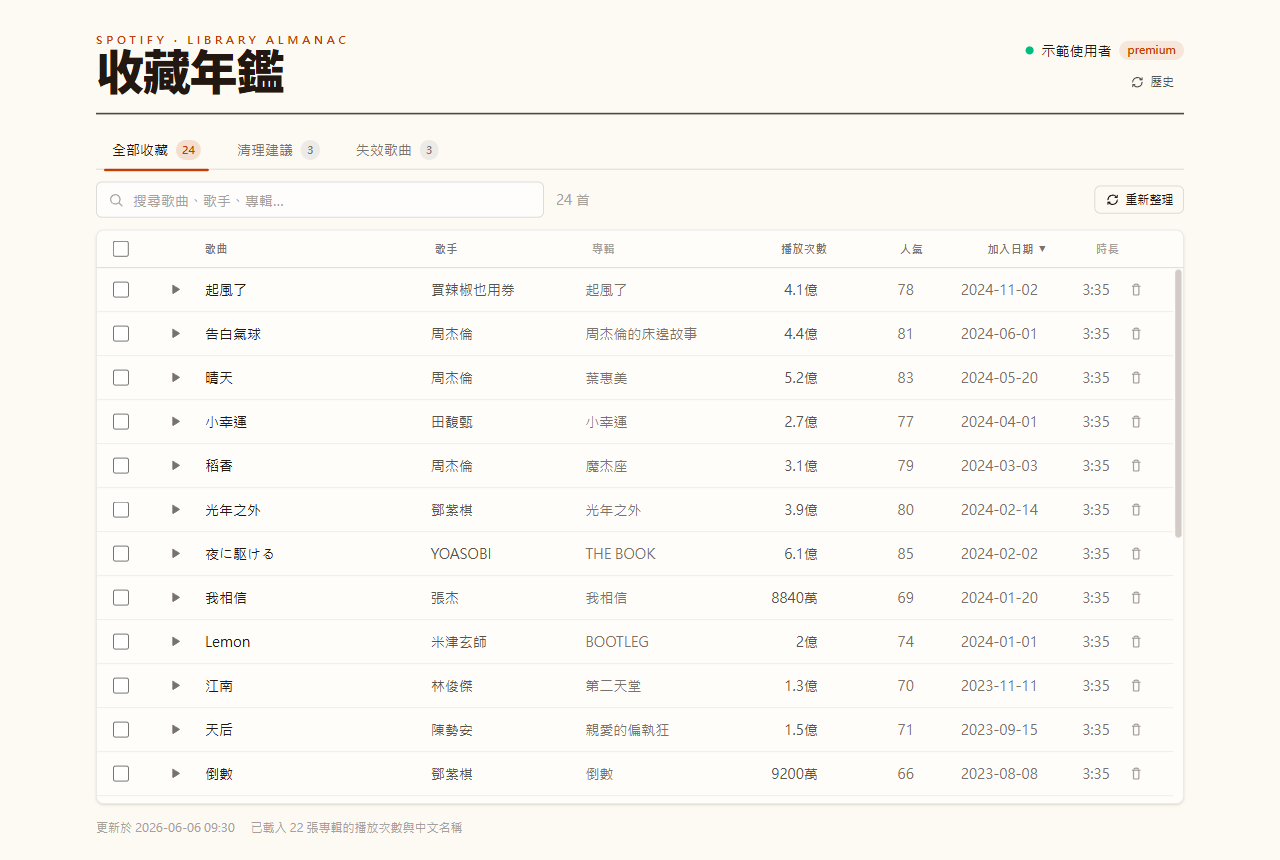
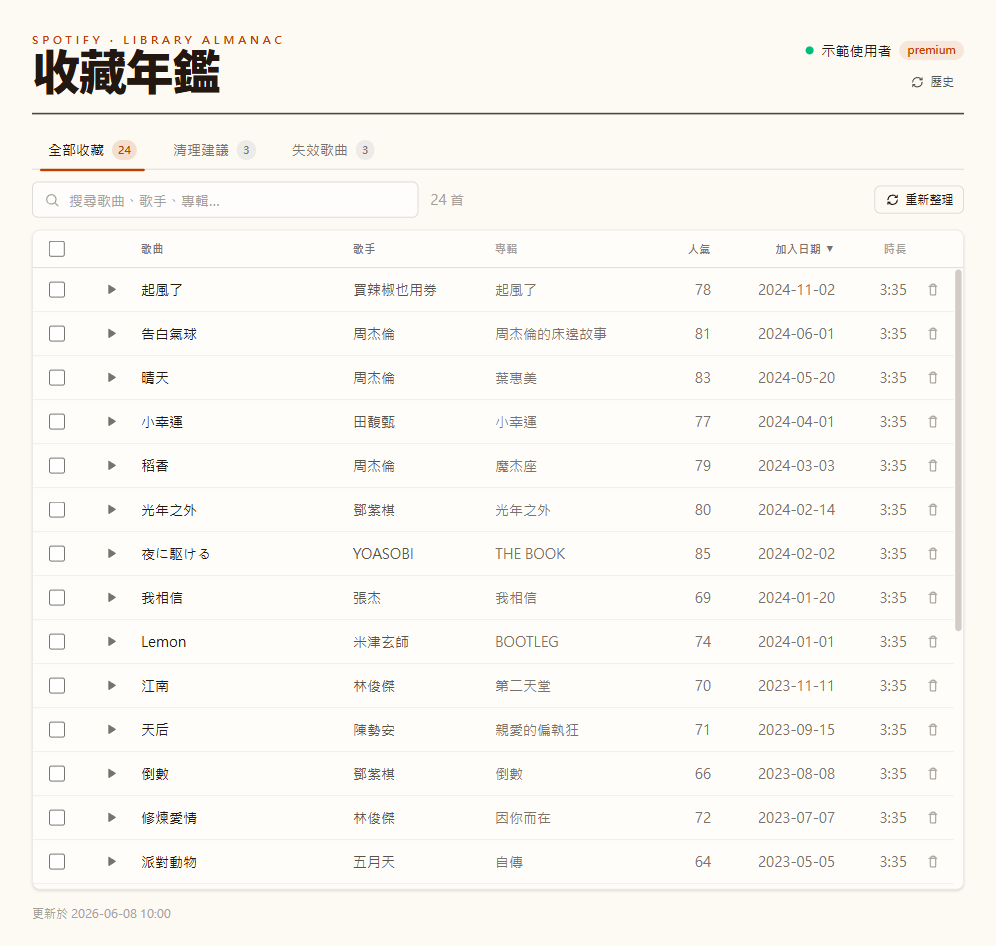
docs(skills): re-verify run skill against current app; drop stale sp_dc auth notes
Re-ran every command in this session: install/typecheck/test/build, mock+Vite
agent path driven end-to-end via Playwright (cleanup opt-out, confirm dialog,
replace dialog with audition, history undo), and the standalone backend bundle
(/health + graceful no-refresh-token /api/status). Updated gotchas with the
orphaned-Vite-process-on-5173 kill recipe and Playwright MCP output paths;
refreshed screenshots.

Claude-Session: https://claude.ai/code/session_01TA7nqXhchNsnhqUKPHfYYM

diff --git a/.claude/skills/run-spotify-track-manager/SKILL.md b/.claude/skills/run-spotify-track-manager/SKILL.md
@@ -5,17 +5,20 @@ description: Run, build, screenshot, or drive the Spotify Track Manager desktop 
 
 # Run Spotify Track Manager
 
-A pnpm monorepo desktop app: `apps/backend` (Fastify, 127.0.0.1), `apps/desktop`
+A pnpm monorepo desktop app: `apps/backend` (Fastify, 127.0.0.1 only), `apps/desktop`
 (Electron shell), `apps/frontend` (React + Vite). The real app needs an interactive
-Spotify login to fetch data, so the **agent-drivable path is the frontend driven by
-a mock backend** — no login, no cookie, sample data that exercises every view.
+Spotify OAuth login (PKCE) to fetch data, so the **agent-drivable path is the frontend
+driven by the mock backend** — `apps/frontend/mock-server.mjs` (committed) serves the
+real `/api/*` contract with sample data that exercises every view. Drive the UI at
+`http://localhost:5173` with a browser tool (Playwright MCP verified).
 
-All paths below are relative to the repo root.
+All paths are relative to the repo root. Verified on Windows via Git Bash
+(Node 25, pnpm 10) — use the Bash tool, not PowerShell, for node commands.
 
 ## Prerequisites
 
 ```bash
-pnpm install     # electron / esbuild / better-sqlite3 native builds are allow-listed
+pnpm install     # electron / esbuild / better-sqlite3 build scripts are allow-listed
 ```
 
 Node ≥ 22 (the backend uses `process.loadEnvFile`).
@@ -24,38 +27,65 @@ Node ≥ 22 (the backend uses `process.loadEnvFile`).
 
 ```bash
 pnpm typecheck        # tsc --noEmit across all packages (exit 0)
-pnpm test             # 63 vitest tests, fully offline (exit 0)
+pnpm test             # 63 vitest tests (all in apps/backend), fully offline (exit 0)
 pnpm -r build         # esbuild backend+desktop bundles, vite frontend build
 ```
 
-## Run — agent path (drive + screenshot the UI)
+## Run — agent path (mock backend + Vite + browser)
 
-Two background processes, then drive with a browser tool. This is exactly what was
-used to verify every view:
+Start two background processes (Bash tool `run_in_background`, or append `&`):
 
 ```bash
-# 1. Mock backend with sample data (duplicates, dead tracks, zh-TW names, playcounts)
-node apps/frontend/mock-server.mjs 8765 &
-
-# 2. Frontend dev server (Vite proxies /api → 127.0.0.1:8765)
-pnpm --filter @stm/frontend dev &
-
-# 3. Wait until it answers, then it's drivable at http://localhost:5173
-until curl -sf -o /dev/null http://localhost:5173/; do sleep 0.5; done
-curl -s http://localhost:5173/api/library | head -c 80   # sanity: proxied sample data
+node apps/frontend/mock-server.mjs 8765      # mock backend (default port is also 8765)
+pnpm --filter @stm/frontend dev              # Vite :5173, proxies /api → 127.0.0.1:8765
 ```
 
-Then drive `http://localhost:5173` with Playwright/chromium-cli (or the Playwright
-MCP). Verified interactions:
+Wait until it answers, then sanity-check the proxy:
 
-- Tabs: `button:has-text("全部收藏")`, `"清理建議"`, `"失效歌曲"`.
-- Search: type into `input[placeholder*="搜尋"]` → fuzzy-filters the virtual table.
-- One-click cleanup: `button:has-text("一鍵清理")` → Radix confirm dialog.
-- Find replacement: on 失效歌曲, `button:has-text("尋找替代")` (one per row) → search dialog.
-- History: `button:has-text("歷史")` → op-log with per-batch 復原.
+```bash
+for i in $(seq 1 30); do curl -sf -o /dev/null http://localhost:5173/ && break; sleep 0.5; done
+curl -s http://localhost:5173/api/status    # {"connected":true,"user":"示範使用者","product":"premium"}
+curl -s http://localhost:5173/api/library | head -c 120
+```
 
-The mock serves `/api/status`, `/api/library`, `/api/history`, `/api/search`; POSTs
-return `{ok:true}` (no real mutation), so destructive buttons are safe to click.
+Then drive `http://localhost:5173`. All interactions below were exercised with the
+Playwright MCP (targets are ARIA roles/names; tab names include the count badge,
+e.g. button `清理建議 3` — partial name match works):
+
+- **Tabs**: buttons `全部收藏 24` / `清理建議 3` / `失效歌曲 3`.
+- **Search**: fill textbox `搜尋歌曲、歌手、專輯…` with `周杰倫` → counter drops
+  `24 首` → `4 首` (fuzzy-filters the virtual table). Fill `""` to clear.
+- **清理建議**: 3 groups rendered keep/remove side-by-side (`保留` vs `移除·重複`
+  badges, per-row `試聽` button). Each group has a checkbox named like
+  `起風了 — 買辣椒也用券 2 個版本`; unchecking it drops the button from
+  `一鍵清理 (3)` to `一鍵清理 (2)`. Clicking it opens the Radix dialog `確認清理`;
+  `確認移除 2 首` POSTs and closes.
+- **失效歌曲**: 3 rows, each with `尋找替代` + `移除`. `尋找替代` opens dialog
+  `尋找替代版本` with the query prefilled (e.g. `她說 林俊傑`); results show
+  duration (`4:14`) with per-row `試聽` and `替換`.
+- **歷史** (header button): dialog `操作歷史` — per-batch `復原` buttons; already
+  undone batches show `已復原`.
+
+The mock serves `GET /api/status`, `/api/library` (tracks **and** cleanup groups),
+`/api/history`, `/api/search`, `/health`; **every POST returns `{ok:true,...}` and
+mutates nothing** — destructive buttons are safe to click, and the data is static
+(after "confirming" a cleanup, the refetch shows the same groups again).
+
+Reference screenshots taken this way live in this skill dir: `screenshot.png`
+(全部收藏) and `screenshot-cleanup.png` (清理建議 keep/remove view).
+
+## Run — real backend standalone (no GUI, no login)
+
+Smoke-tests the composition-root wiring after `pnpm -r build`:
+
+```bash
+PORT=8799 STM_DB_PATH="$TMPDIR/stm-smoke.db" node apps/backend/dist/server.cjs   # background
+curl -s http://127.0.0.1:8799/health        # {"ok":true}
+curl -s http://127.0.0.1:8799/api/status    # {"connected":false,"error":"Error: no refresh token configured"}
+```
+
+That `/api/status` error is the backend degrading gracefully without a Spotify
+refresh token — not a crash.
 
 ## Run — human path (the real Electron app)
 
@@ -63,27 +93,35 @@ return `{ok:true}` (no real mutation), so destructive buttons are safe to click.
 pnpm dev    # concurrently: Vite :5173 + Electron shell
 ```
 
-A login window opens; the user logs into their own Spotify account. The app captures
-the `sp_dc` cookie, encrypts it via `safeStorage`, forks the backend with it, and
-loads the real library. **Requires a human to log in — cannot be done headless, and
-never handle the user's password or the raw cookie.**
+On first run a Spotify OAuth consent window opens (PKCE); the refresh token is
+stored encrypted via `safeStorage`. **Requires a human to log in — cannot be done
+headless, and never handle the user's password or tokens** (see CLAUDE.md).
 
 ## Gotchas
 
-- **Vite port is strict (5173).** `strictPort: true` — if 5173 is taken the dev
-  server exits instead of picking another port. Kill the stale process first.
-- **Real data needs login; the mock does not.** `/api/status` without a cookie
-  returns `{connected:false, error:"no sp_dc configured"}` — that's the backend
-  degrading gracefully, not a crash. The frontend then shows "尚未連線".
-- **better-sqlite3 is native.** It loads fine under Node for dev/tests, but the
-  packaged Electron app needs `electron-rebuild` (different ABI under
-  `ELECTRON_RUN_AS_NODE`). Not yet wired into packaging.
-- **fuzzysort v3.** Search uses `fuzzysort.go(query, prepared, {keys})`; the v2
-  `single()` API is gone. Targets are pre-`prepare`d once for speed over 1700 rows.
+- **Vite port is strict (5173) and the dev-server process outlives its wrapper.**
+  `strictPort: true` — if 5173 is taken the next run exits. Killing the `pnpm dev`
+  wrapper (or the background task) leaves the Vite node child listening. Find and
+  kill it:
+
+  ```bash
+  netstat -ano | grep ":5173 .*LISTEN"    # → PID in the last column
+  taskkill //PID <pid> //F                # Git Bash needs the doubled slashes
+  ```
+
+- **`favicon.ico` 404** in the browser console is the only expected console error —
+  noise, not a failure.
+- **Playwright MCP output paths**: `browser_take_screenshot` with a relative
+  filename writes to the **repo root** (its cwd); page snapshots go to
+  `.playwright-mcp/` (gitignored). Move screenshots where you need them.
+- **better-sqlite3 is native.** Loads fine under plain Node (dev / tests /
+  standalone backend). The packaged Electron app needs the electron-rebuild step
+  that `pnpm dist` runs (`rebuild:native`) — packaging + installer can't be
+  verified headless.
 - **Don't set `module: CommonJS` in a package tsconfig.** The base config uses
   `verbatimModuleSyntax`, which is incompatible with it; esbuild emits the CJS.
-- **CJK fonts.** The Fraunces display font is Latin-only; Chinese names fall back to
-  the system CJK font (JhengHei/PingFang/Noto). That's expected.
+- **CJK fonts.** The display font is Latin-only; Chinese names fall back to the
+  system CJK font (JhengHei/PingFang/Noto). Expected.
 
 ## Troubleshooting
 
@@ -91,5 +129,7 @@ never handle the user's password or the raw cookie.**
   path (mock + vite + browser) instead.
 - Proxy 502 / ECONNREFUSED on `/api/*` → the mock backend (or real backend) on 8765
   isn't running; start it first.
+- `node --version` prints **nothing** in PowerShell on this machine (nvm4w shim
+  quirk) while pnpm works → run node commands through Git Bash (the Bash tool).
 - Electron binary missing after install → ensure `electron` is in the root
   `pnpm.onlyBuiltDependencies`, then re-run `pnpm install`.